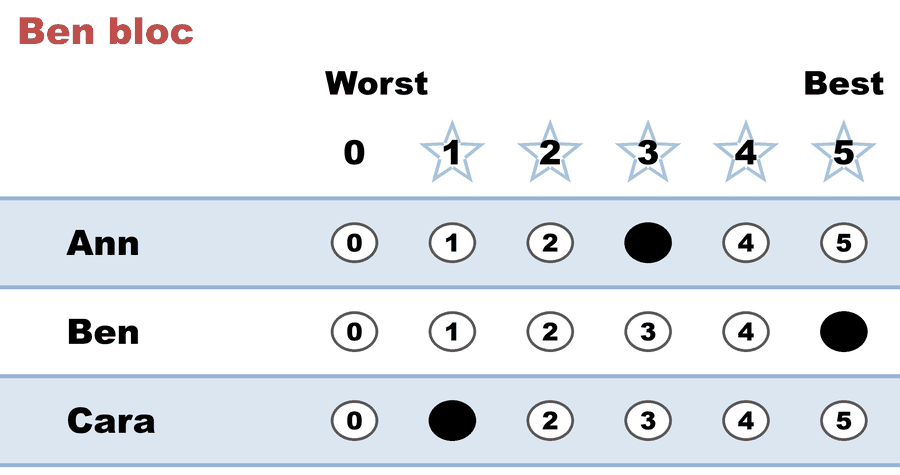
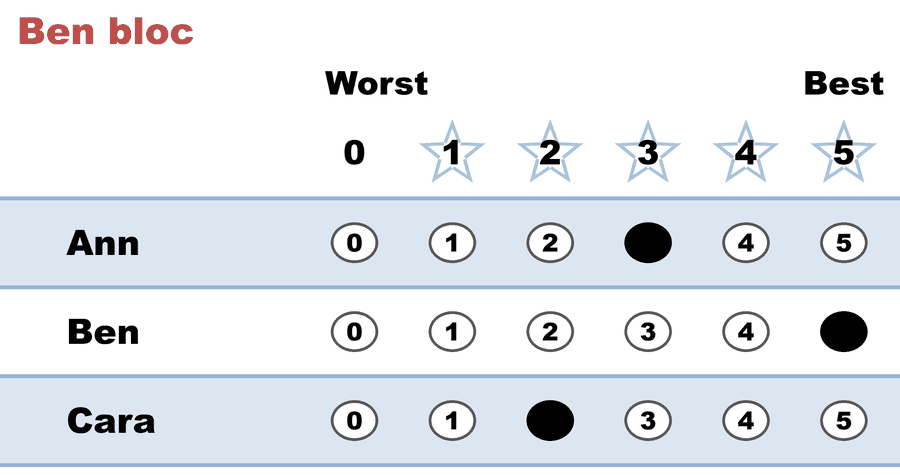
Fix the dead-rung set's one case that wasn't testing anything
tie_break_05 was supposed to be the adversarial "five-star rung ALIVE"
case: Ben and Cara tie for the second finalist slot, the five-star rung
separates them, and lot_numbers deliberately favors Cara so that the
expected winner (Ben) is only reachable if the engine consults the rung
before the lot.

It had no tie. The file was built by raising Ben's two 4s to 5s, which
also raised Ben's total by two — Ben 11, Cara 9 — so the scoring round
never tied, no tiebreaker ever ran, and the adversarial lot order never
bit. The test passed for the wrong reason: it would still pass with the
five-star rung deleted entirely. The scenario_description asserted
"11 points each", "Ben has two 5s, Cara one" and "proves the rung was
consulted"; none of the three was true of the file.

Pay the two points back on Cara's side (1 -> 2 and 4 -> 5). Now:
11-11 on points, 2-2 pairwise, five-star Ben 2 / Cara 1 -> Ben advances
and beats Ann 3-2; skip the rung and Cara advances and Ann wins 3-2.
Every sentence already in the description is now true of the ballots,
and the case tests what it claims to.

Also in this folder's README:
- the alive/dead pair 05/06 was described as "one point apart", which is
  arithmetically impossible — giving a tied candidate a 5 gives them a
  point and breaks the tie the rung exists to settle. Say that instead;
  it is the dead rung in miniature. (01/02 and 03/04 really are one
  point apart and keep the phrasing.)
[…]

Changed region(s): [[0.56, 0.8253, 0.6533, 0.9432], [0.4667, 0.8253, 0.5289, 0.9432]]

diff --git a/01_STAR/03_Criteria/tie_break_dead_rung/README.md b/01_STAR/03_Criteria/tie_break_dead_rung/README.md
@@ -1,6 +1,6 @@
 # The "dead rung" — when STAR's five-star tiebreaker can't fire
 
-*Four tiny constructed elections that isolate one fact: STAR's **five-star** tiebreaker counts votes equal to the **scale maximum (5)**. If none of the tied candidates earned a 5, the rung reads `0–0` and the tie falls through to the **lot** — in **both** rounds.*
+*A dozen tiny constructed elections — plus real BetterVoting races that hit the same thing — isolating one fact: STAR's **five-star** tiebreaker counts votes equal to the **scale maximum (5)**. If none of the tied candidates earned a 5, the rung reads `0–0` and the tie falls through to the **lot** — in **both** rounds.*
 
 Backs the "dead rung" section of the canonical [STAR Tie-Breaking — The Full Chain](../../01_Learn/Tie_Breaking_STAR/tie_breaking.md) (Level 301). Run any file:
 
@@ -22,10 +22,10 @@ AUTOMATIC RUNOFF winner:    score    → five-star → lot
 
 | File | Round | 5 present? | Second rung (five-star) | Decided by | Winner |
 |---|---|:--:|---|---|---|
-| `tie_break_01_scoring_five_star_breaks` | Scoring | yes | Ben 1, Cara 0 → Ben advances | **five-star** | Alice |
-| `tie_break_02_scoring_no_fives_to_lot`  | Scoring | no  | Ben 0, Cara 0 → still tied | **lot** | Alice |
-| `tie_break_03_runoff_no_fives_to_lot`   | Runoff  | no  | Alice 0, Ben 0 → still tied | **lot** | Alice |
-| `tie_break_04_runoff_five_star_breaks`  | Runoff  | yes | Alice 1, Ben 0 → Alice wins | **five-star** | Alice |
+| [`tie_break_01_scoring_five_star_breaks`](cases/cases_pages/tie_break_01_scoring_five_star_breaks.md) | Scoring | yes | Ben 1, Cara 0 → Ben advances | **five-star** | Alice |
+| [`tie_break_02_scoring_no_fives_to_lot`](cases/cases_pages/tie_break_02_scoring_no_fives_to_lot.md)  | Scoring | no  | Ben 0, Cara 0 → still tied | **lot** | Alice |
+| [`tie_break_03_runoff_no_fives_to_lot`](cases/cases_pages/tie_break_03_runoff_no_fives_to_lot.md)   | Runoff  | no  | Alice 0, Ben 0 → still tied | **lot** | Alice |
+| [`tie_break_04_runoff_five_star_breaks`](cases/cases_pages/tie_break_04_runoff_five_star_breaks.md)  | Runoff  | yes | Alice 1, Ben 0 → Alice wins | **five-star** | Alice |
 
 Cases 01/02 are the **same** tie shape one point apart (5s vs capped at 4); 03/04 likewise. Note the eventual **winner is Alice in all four** — the point isn't who wins these toy races, it's **which rung decides**. In a closer election that difference chooses the winner (see the scale-granularity case in [Scale granularity can flip the winner (a 301 case)](../../../07_Concepts/scores_and_ranks/scale_granularity_flips_the_winner.md)).
 
@@ -35,15 +35,19 @@ Cases 01–04 teach, but they can't *catch a regression*: Alice wins whether or 
 
 | File | Round | Rung state | Lot favors | Winner proves |
 |---|---|---|---|---|
-| `tie_break_05_scoring_five_star_vs_adversarial_lot` | Scoring | alive (Ben 2, Cara 1) | Cara | **Ben** — five-star outranks the lot; Ben then wins the runoff |
-| `tie_break_06_scoring_dead_rung_adversarial_lot` | Scoring | dead (all ≤ 4) | Cara | **Ann** — lot advances Cara, who loses the runoff to Ann |
-| `tie_break_07_runoff_five_star_vs_adversarial_lot` | Runoff | alive (Ann 1, Ben 0) | Ben | **Ann** — five-star outranks the lot |
-| `tie_break_08_runoff_dead_rung_adversarial_lot` | Runoff | dead (both top out at 4) | Ben | **Ben** — the lot, not column order, resolves it |
-| `tie_break_09_five_star_tied_nonzero` | Runoff | alive but **non-separating** (one 5 each) | Ben | **Ben** — a rung can run, count real votes, and decide nothing |
+| [`tie_break_05_scoring_five_star_vs_adversarial_lot`](cases/cases_pages/tie_break_05_scoring_five_star_vs_adversarial_lot.md) | Scoring | alive (Ben 2, Cara 1) | Cara | **Ben** — five-star outranks the lot; Ben then wins the runoff |
+| [`tie_break_06_scoring_dead_rung_adversarial_lot`](cases/cases_pages/tie_break_06_scoring_dead_rung_adversarial_lot.md) | Scoring | dead (all ≤ 4) | Cara | **Ann** — lot advances Cara, who loses the runoff to Ann |
+| [`tie_break_07_runoff_five_star_vs_adversarial_lot`](cases/cases_pages/tie_break_07_runoff_five_star_vs_adversarial_lot.md) | Runoff | alive (Ann 1, Ben 0) | Ben | **Ann** — five-star outranks the lot |
+| [`tie_break_08_runoff_dead_rung_adversarial_lot`](cases/cases_pages/tie_break_08_runoff_dead_rung_adversarial_lot.md) | Runoff | dead (both top out at 4) | Ben | **Ben** — the lot, not column order, resolves it |
+| [`tie_break_09_five_star_tied_nonzero`](cases/cases_pages/tie_break_09_five_star_tied_nonzero.md) | Runoff | alive but **non-separating** (one 5 each) | Ben | **Ben** — a rung can run, count real votes, and decide nothing |
 
-05/06 are again the same tie shape one point apart — but here that one point of enthusiasm **changes the elected winner** (Ben vs Ann), not just the deciding rung. Case 09 adds the subtler failure mode: the rung isn't dead, it's *uninformative* — equal nonzero five-star counts fall through to the lot just like `0–0` does.
+05/06 are again the same tie *shape* — Ann leads, Ben and Cara tie for the second finalist slot and tie pairwise — with and without 5s in the tied pair. Here that difference **changes the elected winner** (Ben vs Ann), not just the deciding rung.
 
-All nine files carry `expected_winners:` and are auto-discovered by `test_single_winner_positive.py`.
+Note what 05/06 *can't* be, unlike 01/02 and 03/04: a one-point edit. Handing a tied candidate a 5 also hands them a point, which breaks the very tie the rung is supposed to settle — so an alive/dead pair always has to pay the point back somewhere else (here Cara's `1 → 2` and `4 → 5`). That arithmetic is the dead rung in miniature: **the rung's input and the tie's existence are made of the same numbers.**
+
+Case 09 adds the subtler failure mode: the rung isn't dead, it's *uninformative* — equal nonzero five-star counts fall through to the lot just like `0–0` does.
+
+Every case file in this folder carries `expected_winners:` and is auto-discovered by `test_single_winner_positive.py`.
 
 ## The cap ladder — "so what about the 4s?"
 
@@ -62,6 +66,8 @@ Only an actual **5** revives the rung (that's the `alive` case). These were buil
 A live BetterVoting election that hit exactly this: two candidates, two ballots (Ada 4/0, Ben 0/4), tied at every rung with **no 5s** (a dead rung), which BV resolved by a **random** draw (`tieBreakType: random`) and elected Ben. Import the same ballots with a deterministic **published** lot order and Ada wins — same votes, different winner. Written up as a shareable brief for the BV team: [A lot-decided STAR tie in BetterVoting (jfk7pd)](lot_random_vs_published_jfk7pd/lot_random_vs_published_jfk7pd.md) — with the frozen export and both tabulatable YAMLs ([BV-order → Ben](lot_random_vs_published_jfk7pd/lot_random_vs_published_jfk7pd_bv_order.yaml), [published → Ada](lot_random_vs_published_jfk7pd/lot_random_vs_published_jfk7pd_published_order.yaml)).
 
 **Does it scale past two candidates?** Yes — the phenomenon is about *symmetry*, not candidate count. The [three-way dead-rung tie](three_way_dead_rung_tie/three_way_dead_rung_tie.md) (A 4/0/0, B 0/4/0, C 0/0/4) is the 3-candidate analog: three candidates, **three** possible winners by lot, and a random draw now diverges from a published order **2/3** of the time — `(k−1)/k` for a `k`-way tie. More candidates never fix it; they can make the divergence worse and add a second place (the finalist choice) for the lot to bite.
+
+**And one where every rung dies, not just this one.** [BV126 — ties at every step](bv126_ties_every_step_8fvd2x.md) is a real BetterVoting race running case 09's failure mode at full length: three candidates tie at 29 points, tie pairwise 2–2–2, and hold **five 5s each** — so the five-star rung runs, counts real votes, separates nobody, and the lot picks both finalists. Then the runoff ties too, and the same three rungs die again in the same order. A ladder can be fully alive and still decide nothing. It also shows the second half of the problem: BetterVoting drops the five flat `5,5,5` ballots as abstentions, so the two engines agree on **Amy** only because those ballots couldn't have changed it.
 
 > **Why build these deliberately-degenerate elections at all?** They're *probes*, not forecasts — the fastest way to isolate one tie behavior, make a real bug reproducible, pin the spec, and lock a regression test. See [Why Build "Silly" Tie Elections?](../../../07_Concepts/topics/ties/why_contrived_tie_cases.md) (with a flow-chart map of every tie case).
 

diff --git a/method_comparisons/divergence_review/cases/IRV_DIFFERS_ARTIFACT/tie_break_05_scoring_five_star_vs_adversarial_lot.md b/method_comparisons/divergence_review/cases/IRV_DIFFERS_ARTIFACT/tie_break_05_scoring_five_star_vs_adversarial_lot.md
@@ -6,7 +6,7 @@ _Generated by `STARVote_LH_tabulation_engine/tools_adam/scripts/build_divergence
 
 ## What happens
 
-On these ballots RCV-IRV reports **Cara** rather than STAR's **Ben**, but this is an **artifact of score→rank conversion**, not a robust method difference: 2 of 5 ballots have tied non-zero scores, so their ranks are set by an arbitrary candidate-priority order; the RCV-IRV winner flips when that priority order is reversed. Ranked Robin still elects **Ben**, and there is **no Condorcet winner** — the pairwise results cycle, so no ranked method has a clean anchor. **Do not use this case to criticize RCV-IRV** — the disagreement is a coin-flip created by equal scores and would vanish under a different (equally arbitrary) tie-break.
+On these ballots RCV-IRV reports **Cara** rather than STAR's **Ben**, but this is an **artifact of score→rank conversion**, not a robust method difference: 1 of 5 ballots have tied non-zero scores, so their ranks are set by an arbitrary candidate-priority order; the RCV-IRV winner flips when that priority order is reversed. Ranked Robin still elects **Ben**, and there is **no Condorcet winner** — the pairwise results cycle, so no ranked method has a clean anchor. **Do not use this case to criticize RCV-IRV** — the disagreement is a coin-flip created by equal scores and would vanish under a different (equally arbitrary) tie-break.
 
 ## Winners by method
 
@@ -19,7 +19,7 @@ On these ballots RCV-IRV reports **Cara** rather than STAR's **Ben**, but this i
 | Range / Score | Ann |
 | Condorcet | none (cycle) |
 
-**Flags:** 2 tied-score ballot(s); IRV winner flips under reversed priority (fragile tie); RR conversion-sensitive (weak=Ben, strict=Cara)
+**Flags:** 1 tied-score ballot(s); IRV winner flips under reversed priority (fragile tie); RR conversion-sensitive (weak=Ben, strict=Cara)
 
 **Source election:** [`01_STAR/03_Criteria/tie_break_dead_rung/cases/tie_break_05_scoring_five_star_vs_adversarial_lot.yaml`](../../../../01_STAR/03_Criteria/tie_break_dead_rung/cases/tie_break_05_scoring_five_star_vs_adversarial_lot.yaml)  ·  **STAR tabulated mirror:** [`tie_break_05_scoring_five_star_vs_adversarial_lot_tabulated.txt`](../../../../01_STAR/03_Criteria/tie_break_dead_rung/cases/cases_tabulated/tie_break_05_scoring_five_star_vs_adversarial_lot_tabulated.txt)
 
@@ -31,21 +31,21 @@ Each row is a group of identical score ballots (0 = no support, 5 = max).
 
 | Count | Ann | Ben | Cara |
 |---:|:--:|:--:|:--:|
-| 1 | 3 | 5 | 1 |
+| 1 | 3 | 5 | 2 |
 | 1 | 3 | 5 | 0 |
 | 1 | 4 | 0 | 3 |
-| 1 | 4 | 0 | 4 |
+| 1 | 4 | 0 | 5 |
 | 1 | 0 | 1 | 1 |
 
 ## STAR result (official)
 
-**Scoring round (sum of scores):** Ann 14, Ben 11, Cara 9
+**Scoring round (sum of scores):** Ann 14, Ben 11, Cara 11
 
-**Finalists (top two):** Ann and Ben
+**Finalists (top two):** Ann and Cara
 
-**Automatic runoff:** Ann 2 vs Ben 3
+**Automatic runoff:** Ann 3 vs Cara 2
 
-**STAR winner: Ben**
+**STAR winner: Ann**
 
 Full LH STAR engine report:
 
@@ -54,6 +54,11 @@ Full LH STAR engine report:
 Head-to-head / pairwise comparison
 Legend: For - Equal Support - Against
         * indicates Top 2 Finalist
+        Note: Ben and Cara tied at 11 in the Scoring Round, and the five-star
+              rung advanced Ben. The * marks who advanced, not who scored
+              highest. Cara is filtered out of this grid — see the Scoring
+              Round for how the tie was settled.
+
                |   * Ann    |  * Ben    |
 -----------------------------------------
        * Ann > |    ---     |2 - 0 - 3  |
@@ -64,7 +69,7 @@ Legend: For - Equal Support - Against
   Choose-One (Plurality) = Cara   (differs from STAR)
   RCV-IRV                = Cara   (differs from STAR)
   Approval               = Ann   (differs from STAR)
-  Note: 2 of 5 ballots (40%) had equal non-zero scores, so their ranks were
+  Note: 1 of 5 ballots (20%) had equal non-zero scores, so their ranks were
         decided by candidate priority order. The RCV-IRV result may be an
         artifact of score-to-rank tie-breaking rather than a deep
         difference.
@@ -83,10 +88,10 @@ Legend: For - Equal Support - Against
 --- STAR Voting Method (single winner) ---
  Tabulating 5 ballots.
 Ann,Ben,Cara
-  3,  5,   1
+  3,  5,   2
   3,  5,   0
   4,  0,   3
-  4,  0,   4
+  4,  0,   5
   0,  1,   1
 
 [Score Distribution] (how many ballots gave each star rating)
@@ -94,13 +99,26 @@ Ann,Ben,Cara
 Candidate  5  4  3  2  1  0  | Total   Avg
 Ann        0  2  2  0  0  1  |    14   2.8
 Ben        2  0  0  0  1  2  |    11   2.2
-Cara       0  1  1  0  2  1  |     9   1.8
+Cara       1  0  1  1  1  1  |    11   2.2
 
 Scoring Round
  The two highest-scoring candidates advance to the next round.
    Ann           -- 14 -- First place
-   Ben           -- 11 -- Second place
-   Cara          --  9
+   Ben           -- 11 -- Tied for second place
+   Cara          -- 11 -- Tied for second place
+ Ann advances, but there's a two-way tie for second.
+
+Scoring Round: First tiebreaker
+ The candidate preferred in the most head-to-head matchups advances.
+   Ben           -- 2 -- Tied for second place
+   Cara          -- 2 -- Tied for second place
+   Equal Support -- 1
+ There's still a two-way tie for second.
+
+Scoring Round: Second tiebreaker
+ The candidate with the most votes of score 5 advances.
+   Ben           -- 2 -- Second place
+   Cara          -- 1
  Ann and Ben advance.
 
 Automatic Runoff Round
@@ -127,10 +145,10 @@ Winner — STAR Voting Method (single winner)
 Ballots:
    the ranking RCV-IRV reads (0 = unranked, equal scores broken by priority);
    the source score ballot follows in () per column: Ann, Ben, Cara
-     1 ×   Ben > Ann > Cara      (3, 5, 1)
+     1 ×   Ben > Ann > Cara      (3, 5, 2)
      1 ×   Ben > Ann      (3, 5, 0)
      1 ×   Ann > Cara      (4, 0, 3)
-     1 ×   Cara > Ann      (4, 0, 4)
+     1 ×   Cara > Ann      (4, 0, 5)
      1 ×   Cara > Ben      (0, 1, 1)
 
 ROUND 1
@@ -183,15 +201,15 @@ NOTE: a generated cross-method view of the STAR ballots, for comparison only —
 
 Ballots:
    the ranking Ranked Robin reads ("=" = tied); source scores follow in () per column: Ann, Ben, Cara
-     1 × Ben > Ann > Cara      (3, 5, 1)
+     1 × Ben > Ann > Cara      (3, 5, 2)
      1 × Ben > Ann > Cara      (3, 5, 0)
      1 × Ann > Cara > Ben      (4, 0, 3)
-     1 × Ann=Cara > Ben      (4, 0, 4)
+     1 × Cara > Ann > Ben      (4, 0, 5)
      1 × Ben=Cara > Ann      (0, 1, 1)
 
 Round-Robin — every pair, head-to-head (For – Against):
    Ben   beats Ann    3 – 2
-   Ann   beats Cara   3 – 1
+   Ann   beats Cara   3 – 2
    Ben   ties  Cara   2 – 2
 
 --- Pairwise (Round-Robin) Matrix ---
@@ -199,15 +217,15 @@ Head-to-head / pairwise comparison — the Ranked Robin tally
 Legend: For - Equal Support - Against   (row vs column)
          |    Ann    |   Ben    |  Cara    |
 --------------------------------------------
-   Ann > |    ---    |2 - 0 - 3 |3 - 1 - 1 |
+   Ann > |    ---    |2 - 0 - 3 |3 - 0 - 2 |
    Ben > | 3 - 0 - 2 |   ---    |2 - 1 - 2 |
-  Cara > | 1 - 1 - 3 |2 - 1 - 2 |   ---    |
+  Cara > | 2 - 0 - 3 |2 - 1 - 2 |   ---    |
 
 Win–loss record — Copeland score = wins + ½·ties (highest score wins; ties broken by the Ranked Robin degrees, then lot order):
     #  Candidate  W–L–T  Copeland  Margin  Beats
     1  Ben        1–0–1       1.5      +1  Ann
-    2  Ann        1–1–0         1      +1  Cara
-    3  Cara       0–1–1       0.5      -2  —
+    2  Ann        1–1–0         1      +0  Cara
+    3  Cara       0–1–1       0.5      -1  —
 
 Winner — Ranked Robin (RCV-RR): Ben
    unbeaten, but draws Cara — a *weak* Condorcet winner, not a strict one (highest Copeland score, 1.5).

diff --git a/01_STAR/03_Criteria/tie_break_dead_rung/cases/cases_pages/tie_break_05_scoring_five_star_vs_adversarial_lot.md b/01_STAR/03_Criteria/tie_break_dead_rung/cases/cases_pages/tie_break_05_scoring_five_star_vs_adversarial_lot.md
@@ -26,10 +26,10 @@ The ballots as marked — the filled bubble is the score given, and the score is
 
 | # | Ballot as marked | Ann | Ben | Cara |
 |:--:|:--|:--:|:--:|:--:|
-| 1 | <img src="../img/tie_break_05_scoring_five_star_vs_adversarial_lot_ballot_1.png" width="330" style="min-width:330px" alt="A 0–5 STAR ballot — Ben bloc: Ann 3, Ben 5, Cara 1."> | 3 | 5 | 1 |
+| 1 | <img src="../img/tie_break_05_scoring_five_star_vs_adversarial_lot_ballot_1.png" width="330" style="min-width:330px" alt="A 0–5 STAR ballot — Ben bloc: Ann 3, Ben 5, Cara 2."> | 3 | 5 | 2 |
 | 2 | <img src="../img/tie_break_05_scoring_five_star_vs_adversarial_lot_ballot_2.png" width="330" style="min-width:330px" alt="A 0–5 STAR ballot — Ben bloc: Ann 3, Ben 5, Cara 0."> | 3 | 5 | 0 |
 | 3 | <img src="../img/tie_break_05_scoring_five_star_vs_adversarial_lot_ballot_3.png" width="330" style="min-width:330px" alt="A 0–5 STAR ballot — Cara bloc: Ann 4, Ben 0, Cara 3."> | 4 | 0 | 3 |
-| 4 | <img src="../img/tie_break_05_scoring_five_star_vs_adversarial_lot_ballot_4.png" width="330" style="min-width:330px" alt="A 0–5 STAR ballot — Cara bloc: Ann 4, Ben 0, Cara 4."> | 4 | 0 | 4 |
+| 4 | <img src="../img/tie_break_05_scoring_five_star_vs_adversarial_lot_ballot_4.png" width="330" style="min-width:330px" alt="A 0–5 STAR ballot — Cara bloc: Ann 4, Ben 0, Cara 5."> | 4 | 0 | 5 |
 | 5 | <img src="../img/tie_break_05_scoring_five_star_vs_adversarial_lot_ballot_5.png" width="330" style="min-width:330px" alt="A 0–5 STAR ballot — low-score voter: Ann 0, Ben 1, Cara 1."> | 0 | 1 | 1 |
 
 The same ballots as the file records them:
@@ -38,10 +38,10 @@ Row 1 = candidate names; each later row is one voter's 0–5 scores (a `N ×` pr
 
 ```text
 Ann,Ben,Cara
-3,5,1   # Ben bloc
+3,5,2   # Ben bloc
 3,5,0   # Ben bloc
 4,0,3   # Cara bloc
-4,0,4   # Cara bloc
+4,0,5   # Cara bloc
 0,1,1   # low-score voter
 ```
 
@@ -56,7 +56,7 @@ The count, step by step — the rounds and how the winner is reached:
   Choose-One (Plurality) = Cara   (differs from STAR)
   RCV-IRV                = Cara   (differs from STAR)
   Approval               = Ann   (differs from STAR)
-  Note: 2 of 5 ballots (40%) had equal non-zero scores, so their ranks were
+  Note: 1 of 5 ballots (20%) had equal non-zero scores, so their ranks were
         decided by candidate priority order. The RCV-IRV result may be an
         artifact of score-to-rank tie-breaking rather than a deep
         difference.
@@ -78,17 +78,30 @@ The count, step by step — the rounds and how the winner is reached:
 [STAR Voting]
  Tabulating 5 ballots.
 Ann,Ben,Cara
-  3,  5,   1
+  3,  5,   2
   3,  5,   0
   4,  0,   3
-  4,  0,   4
+  4,  0,   5
   0,  1,   1
 
 [STAR Voting: Scoring Round]
  The two highest-scoring candidates advance to the next round.
    Ann           -- 14 -- First place
-   Ben           -- 11 -- Second place
-   Cara          --  9
+   Ben           -- 11 -- Tied for second place
+   Cara          -- 11 -- Tied for second place
+ Ann advances, but there's a two-way tie for second.
+
+[STAR Voting: Scoring Round: First tiebreaker]
+ The candidate preferred in the most head-to-head matchups advances.
+   Ben           -- 2 -- Tied for second place
+   Cara          -- 2 -- Tied for second place
+   Equal Support -- 1
+ There's still a two-way tie for second.
+
+[STAR Voting: Scoring Round: Second tiebreaker]
+ The candidate with the most votes of score 5 advances.
+   Ben           -- 2 -- Second place
+   Cara          -- 1
  Ann and Ben advance.
 
 [STAR Voting: Automatic Runoff Round]
@@ -116,11 +129,15 @@ Ann,Ben,Cara
 Head-to-head / pairwise comparison
 Legend: For - Equal Support - Against
         * indicates Top 2 Finalist
+        Note: Ben and Cara tied at 11 in the Scoring Round, and the five-star
+              rung advanced Ben. The * marks who advanced, not who scored
+              highest.
+
                |   * Ann    |  * Ben    |    Cara   |
 -----------------------------------------------------
-       * Ann > |    ---     |2 - 0 - 3  |3 - 1 - 1  |
+       * Ann > |    ---     |2 - 0 - 3  |3 - 0 - 2  |
        * Ben > | 3 - 0 - 2  |   ---     |2 - 1 - 2  |
-        Cara > | 1 - 1 - 3  |2 - 1 - 2  |   ---     |
+        Cara > | 2 - 0 - 3  |2 - 1 - 2  |   ---     |
 
 [Condorcet Winner]
   No strict Condorcet winner; weak Condorcet winner: Ben — matches the STAR winner
@@ -133,7 +150,7 @@ Legend: For - Equal Support - Against
 Candidate  5  4  3  2  1  0  | Total   Avg
 Ann        0  2  2  0  0  1  |    14   2.8
 Ben        2  0  0  0  1  2  |    11   2.2
-Cara       0  1  1  0  2  1  |     9   1.8
+Cara       1  0  1  1  1  1  |    11   2.2
 ```
 
 Everything in one file: the [`_tabulated` mirror](../cases_tabulated/tie_break_05_scoring_five_star_vs_adversarial_lot_tabulated.txt) (regenerated on every run; every analysis forced on).

diff --git a/method_comparisons/divergence_review/INDEX.md b/method_comparisons/divergence_review/INDEX.md
@@ -148,7 +148,7 @@ _RCV-IRV differs but it's a score->rank tie-break artifact (tied ballots and/or 
     _flags: 4 tied-score ballot(s); IRV flips on reversed priority; RR conv-sensitive (weak=Bruno, strict=Alma)_
 - **[tie_break_05_scoring_five_star_vs_adversarial_lot](cases/IRV_DIFFERS_ARTIFACT/tie_break_05_scoring_five_star_vs_adversarial_lot.md)** — `01_STAR/03_Criteria/tie_break_dead_rung/cases/tie_break_05_scoring_five_star_vs_adversarial_lot.yaml` (3c/5b)  
     STAR=**Ben** · IRV=Cara · RR=Ben · Approval=Ann · Score=Ann · Condorcet=none  
-    _flags: 2 tied-score ballot(s); IRV flips on reversed priority; RR conv-sensitive (weak=Ben, strict=Cara)_
+    _flags: 1 tied-score ballot(s); IRV flips on reversed priority; RR conv-sensitive (weak=Ben, strict=Cara)_
 - **[01_c3_b31_graders-divide](cases/IRV_DIFFERS_ARTIFACT/01_c3_b31_graders-divide.md)** — `06_Other/ballot_style_lab/cases/01_c3_b31_graders-divide.yaml` (3c/31b)  ·  [BV ↗](https://bettervoting.com/4jmgrd/results)  
     STAR=**Clara** · IRV=Bruno · RR=Clara · Approval=Abby · Score=Bruno · Condorcet=none  
     _flags: 9 tied-score ballot(s); RR conv-sensitive (weak=Clara, strict=Bruno)_

diff --git a/01_STAR/03_Criteria/tie_break_dead_rung/cases/cases_pages/tie_break_06_scoring_dead_rung_adversarial_lot.md b/01_STAR/03_Criteria/tie_break_dead_rung/cases/cases_pages/tie_break_06_scoring_dead_rung_adversarial_lot.md
@@ -13,13 +13,13 @@ search:
 
 ## Scenario
 
-The SAME shape as case 01 with every top score capped at 4: Ben and Cara
-still tie on points (9-9) and pairwise (2-2) for the second finalist slot —
-but now NOBODY scored the maximum, so the five-star rung reads 0-0 and is
-a DEAD RUNG. The tie falls through to the lot, which favors Cara; Ann then
-beats Cara in the runoff 3-1.
-One point of enthusiasm is the whole difference: case 01 is decided by
-ballots (five-star), case 02 by the pre-drawn lot. See
+The SAME tie shape as case 01 — Ann leads, Ben and Cara tie for the second
+finalist slot (9-9) and tie pairwise (2-2) — but here no score in the tied
+pair reaches the 0-5 maximum, so the five-star rung reads 0-0 and is a DEAD
+RUNG. The tie falls through to the lot, which favors Cara; Ann then beats
+Cara in the runoff 3-1.
+Whether the tied pair holds any 5s is the whole difference: case 01 is
+decided by ballots (five-star), case 02 by the pre-drawn lot. See
 01_STAR/01_Learn/Tie_Breaking_STAR/tie_breaking.md.
 
 ## Ballots
